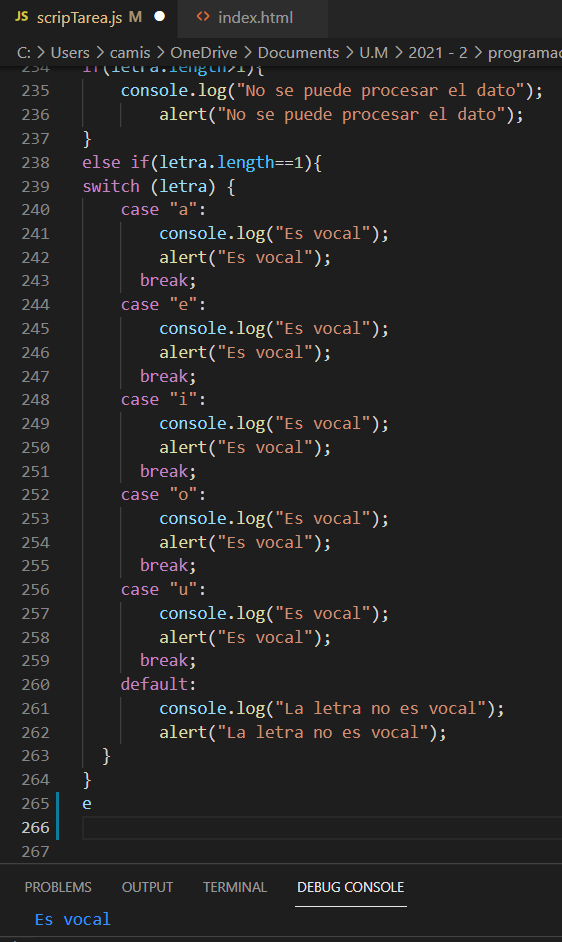
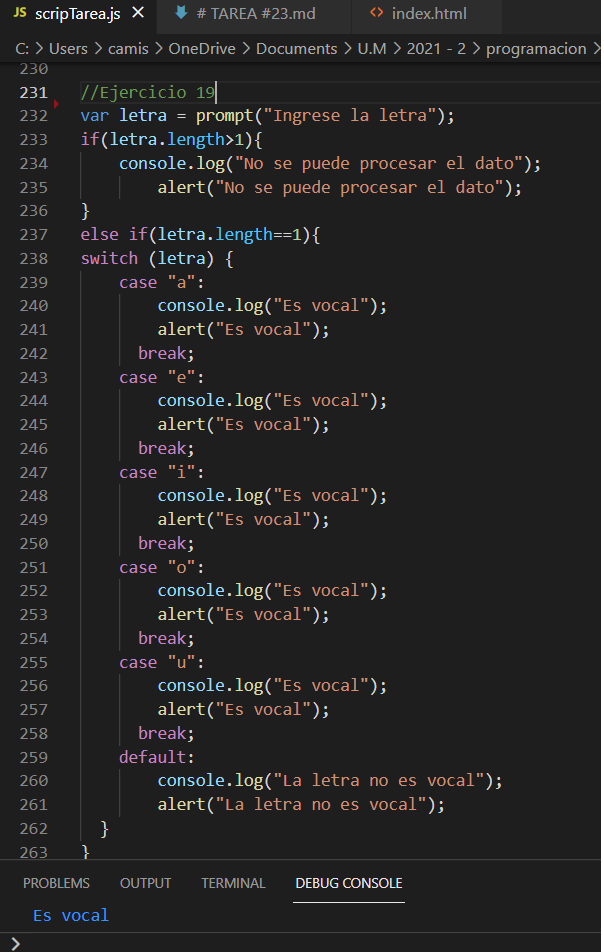
Subida final

diff --git a/scripTarea.js b/scripTarea.js
@@ -229,7 +229,6 @@ else{
 */
 
 //Ejercicio 19
-/*
 var letra = prompt("Ingrese la letra");
 if(letra.length>1){
     console.log("No se puede procesar el dato"); 
@@ -262,7 +261,7 @@ switch (letra) {
         alert("La letra no es vocal"); 
   }
 }
-*/
+
 
 //Ejercicio 20
 /*

diff --git a/# TAREA #23.md b/# TAREA #23.md
@@ -1,4 +1,4 @@
-# TAREA #23
+# TAREA #6 JavaScript
 
 ## PARTICIPANTES
 1. Juan Camilo Serna R.
